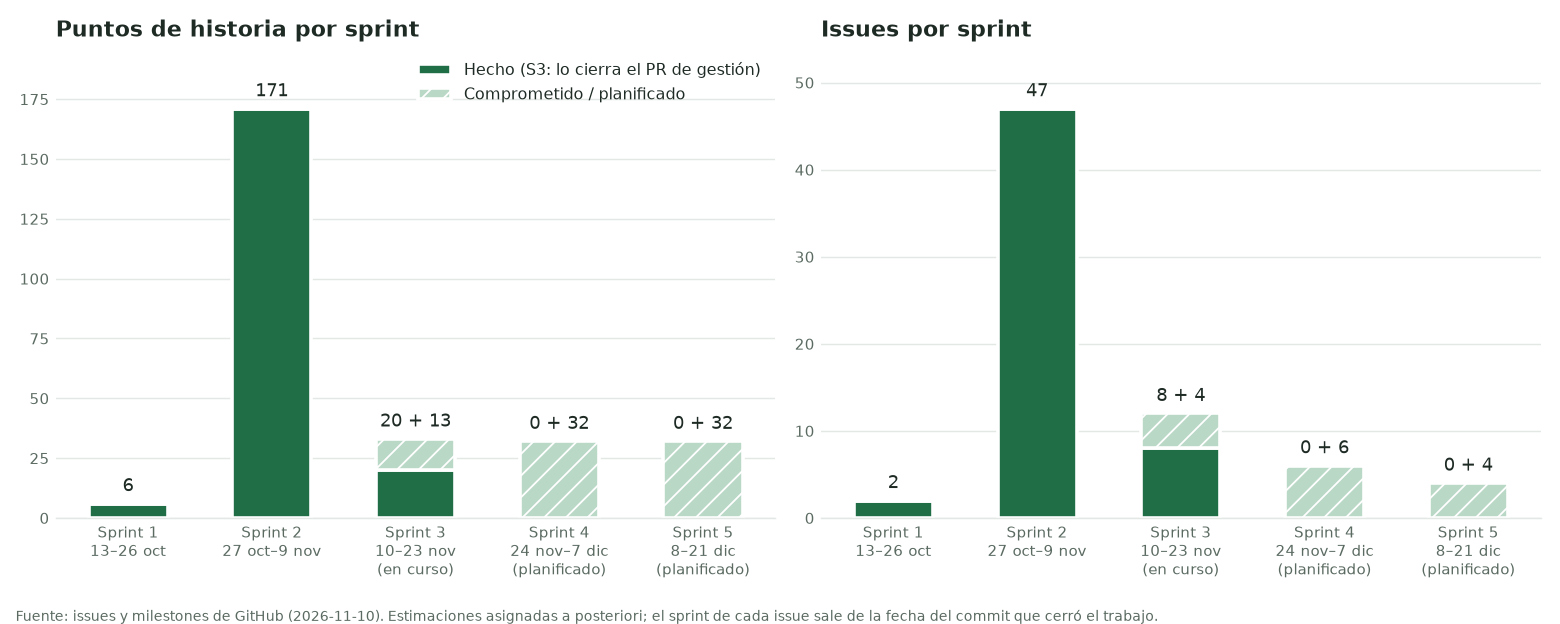
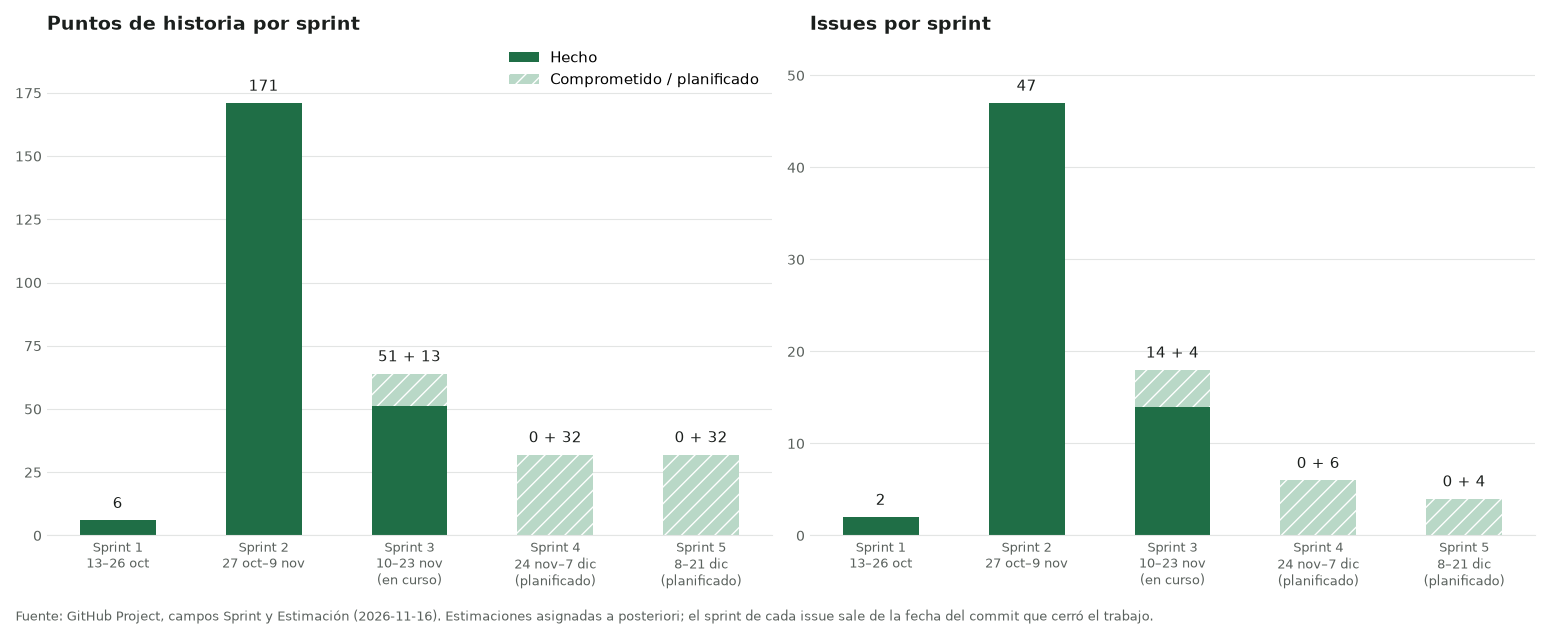
actualiza el sprint 3 con la entrega v0.2.0 y la gráfica de velocidad

diff --git a/docs/gestion/sprints.md b/docs/gestion/sprints.md
@@ -10,12 +10,13 @@ Cada sprint es un milestone en GitHub y una iteración del campo «Sprint» en e
 |---|---|---|---|---|---|
 | Sprint 1 | 2026-10-13 a 2026-10-26 | Cerrado | [Sprint 1](https://github.com/Pipemora1324/Agrovet/milestone/1?closed=1) | 2 + 0 | 6 + 0 |
 | Sprint 2 | 2026-10-27 a 2026-11-09 | Cerrado | [Sprint 2](https://github.com/Pipemora1324/Agrovet/milestone/2?closed=1) | 47 + 0 | 171 + 0 |
-| Sprint 3 | 2026-11-10 a 2026-11-23 | En curso | [Sprint 3](https://github.com/Pipemora1324/Agrovet/milestone/3) | 8 + 4 | 20 + 13 |
+| Sprint 3 | 2026-11-10 a 2026-11-23 | En curso | [Sprint 3](https://github.com/Pipemora1324/Agrovet/milestone/3) | 14 + 4 | 51 + 13 |
 | Sprint 4 | 2026-11-24 a 2026-12-07 | Planificado | [Sprint 4](https://github.com/Pipemora1324/Agrovet/milestone/4) | 0 + 6 | 0 + 32 |
 | Sprint 5 | 2026-12-08 a 2026-12-21 | Planificado | [Sprint 5](https://github.com/Pipemora1324/Agrovet/milestone/5) | 0 + 4 | 0 + 32 |
 
-En el sprint 3, los 8 «hechos» son los issues de gestión y evidencias que cierra el pull request de
-esta entrega. Las épicas y las HU no llevan sprint, porque abarcan varios.
+En el sprint 3 los «hechos» son los 8 issues de gestión y evidencias (#80–#87) y los 6 de la entrega
+v0.2.0 (#106–#111). Las cifras salen de los campos Sprint y Estimación del Project, igual que la
+gráfica. Las épicas y las HU no llevan sprint, porque abarcan varios.
 
 ![Puntos e issues por sprint](velocidad.png)
 
@@ -99,8 +100,54 @@ despliegue con HTTPS y la protección de ramas.
 - Datos del responsable en el aviso de privacidad (#90).
 - Protección de ramas con checks obligatorios (#22).
 
-**Avance al 2026-11-10:** primer pull request del repositorio, con las plantillas, el backlog y las
-evidencias; lo demás está en «Listo».
+**Qué se hizo (al 2026-11-16):** 9 pull requests integrados en `develop` con `--no-ff` y el CI en
+verde (#99–#105, #112 y #113), y la versión **v0.2.0** en `main`.
+
+- **10 y 11-nov:** gestión del proyecto, plantillas y evidencias de pruebas (#99, #100; issues #80–#87).
+- **15-nov, calidad del CI (#101 → issue #106):**
+  - cobertura con umbral en los tres módulos;
+  - mutación con PIT y mutmut (umbral de 90 %);
+  - Checkstyle, SpotBugs, ruff y mypy;
+  - SonarCloud con Quality Gate;
+  - CodeQL, gitleaks, Trivy y OpenSSF Scorecard.
+- **15 y 16-nov, evaluaciones sin cambiar la app:**
+  - **Clasificador de leche** (#102 → #107): AUC 0,9996, pero el contexto sin leche ya da 0,91. No se integra.
+  - **Robustez del LSTM desplegado** (#103 → #108): con datos sintéticos; el punto débil son los días recientes sin registrar.
+  - **Asistente** (#104 → #109): con la API real, 30 preguntas y 10 ataques; seguridad 2,00 y 30/30 ataques resistidos; prompt mejorado.
+- **16-nov, entrega v0.2.0:**
+  - **APK de demostración** (#105 → #110): `DEMO_MODE`, funciona sin servidor.
+  - **Correcciones de seguridad del CI** (#112, #113): hashes en las dependencias de Python, `--enforce-lockfile`, HTTPS obligatorio, ruta validada; dejaron el Quality Gate de `develop` en verde.
+  - **Publicación** (#111): `develop` → `main` (`dcad510`) y etiqueta `v0.2.0`, con los 9 workflows en verde.
+  - **APK release arm64 de demostración** compilado desde la etiqueta: 13,0 MiB (13 664 539 bytes).
+
+**Estado de la entrega v0.2.0 (CI de `main`):**
+
+| Módulo | Pruebas | Cobertura de líneas | Cobertura de ramas | Mutación |
+|---|---|---|---|---|
+| backend | 195 (193 pasan, 2 omitidas: llamadas reales a Gemini) | 93,9 % | 85,2 % | PIT en `auth` y `sync`: 100 % (313/313) |
+| mobile | 193 | 74,9 % | — | — |
+| ml | 195 | 78,8 % | 74,4 % | mutmut: 94,9 % (1422/1499) |
+
+**Pendiente del sprint (sigue abierto hasta el 23-nov):**
+- Desplegar el backend con HTTPS (#88): sin él, el APK no permite crear cuentas.
+- Dependabot #33 y #34 (#89): ahora también hay que regenerar los `.lock`.
+- Datos del responsable en el aviso de privacidad (#90).
+- Protección de ramas con checks obligatorios (#22): `main` no tiene reglas.
+
+**Revisión:**
+- *Qué salió bien:*
+  - Todo entró por pull request con la plantilla y el CI en verde, como se propuso en la revisión del sprint 2.
+  - Cada evaluación declaró sus límites: datos sintéticos, sesgo de contexto, una sola corrida del asistente.
+- *Qué salió mal:*
+  - SonarCloud dejó de respetar `sonar.tests`. Las pruebas de Java y de Dart contaban como código sin cubrir; se excluyeron del análisis (#104, #105).
+  - El Quality Gate de `develop` estuvo en ERROR desde el 15-nov sin que se notara, porque cada PR solo mira su propio código nuevo. Se corrigió en #112 y #113.
+  - Un YAML inválido (`:all: --`) dejó tres workflows sin arrancar. Se detectó porque faltaban checks en el PR.
+  - La primera compilación del APK salió con `versionName` 0.1.0, porque `pubspec.yaml` no se había subido de versión. Se recompiló desde la etiqueta con `--build-name=0.2.0`.
+- *Qué cambiar:*
+  - Revisar el Quality Gate de la rama, no solo el del PR.
+  - Subir la versión en `pubspec.yaml` y en `pom.xml` antes de etiquetar.
+  - Activar la protección de ramas (#22).
+  - En `main`, SonarCloud todavía no calcula el Quality Gate (primer análisis). Quedan 9 hallazgos anteriores a v0.2.0 (3 bugs y 6 vulnerabilidades, del 27-oct al 8-nov) por revisar.
 
 ## Sprint 4 · 2026-11-24 a 2026-12-07 (planificado)
 
